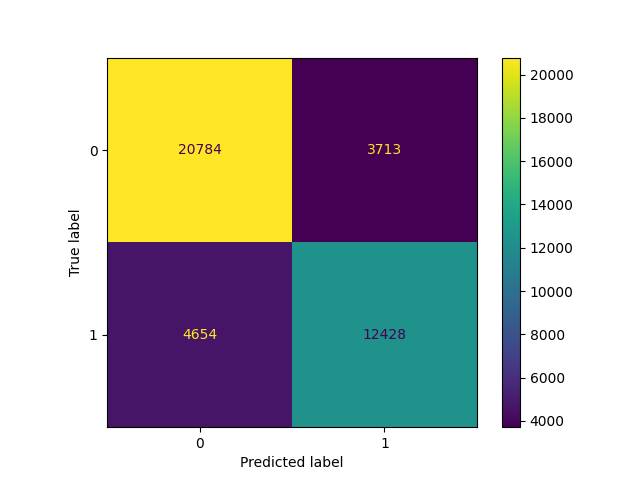
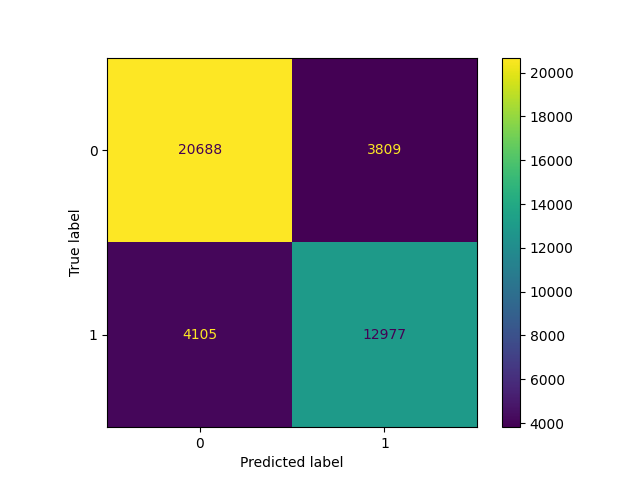
add: shap waterfall plot, confactual example, continued the report

diff --git a/example_manipulation.py b/example_manipulation.py
@@ -1,0 +1,28 @@
+from XGBoostTests import tester
+from pandas import read_csv
+from numpy import ravel
+from sklearn.metrics import accuracy_score, ConfusionMatrixDisplay, confusion_matrix, classification_report
+from matplotlib import pyplot as plt
+import shap
+from lime import lime_tabular
+
+dataset = tester.X_test.iloc[[0]].copy()
+dataset["WKHP"] = 40
+preds = tester.model.predict(dataset)
+print(f"Prediction with WKHP=40: {preds}")
+shap_explainer = shap.Explainer(tester.model,tester.X_train)
+shap_values = shap_explainer(dataset)
+shap.waterfall_plot(shap_values[0], show=False)
+plt.tight_layout()
+plt.savefig("images/shap/manipulated_waterfall_plot.png")
+plt.close()
+
+explainer = lime_tabular.LimeTabularExplainer(training_data=tester.X_train.values,
+                                              feature_names=tester.X_train.keys(),
+                                                class_names=[str(c) for c in tester.model.classes_],
+                                                mode='classification')
+exp = explainer.explain_instance(data_row=dataset.iloc[0].values,
+                                 predict_fn=tester.model.predict_proba)
+fig = exp.as_pyplot_figure()
+plt.tight_layout()
+plt.savefig(f"images/lime/manipulated_WKHP_40.png")

diff --git a/lime_exp.py b/lime_exp.py
@@ -1,17 +1,15 @@
 from lime import lime_tabular
-from utils import ModelTester
-from xgboost import XGBClassifier
+from XGBoostTests import tester
 from matplotlib import pyplot as plt
-params = {'learning_rate': 0.05, 'max_depth': 6, 'n_estimators': 400}
 
-clf = XGBClassifier(enable_categorical=True, **params)
-tester = ModelTester(clf)
-tester.test_model()
 explainer = lime_tabular.LimeTabularExplainer(training_data=tester.X_train.values,
                                               feature_names=tester.X_train.keys(),
                                               class_names=[str(c) for c in tester.model.classes_],
                                               mode='classification')
-explainer.explain_instance(data_row=tester.X_test.iloc[0].values,
-                           predict_fn=tester.model.predict_proba).as_pyplot_figure()
+print(tester.model.predict_proba(tester.X_test.iloc[[0]]))
+print(tester.model.predict(tester.X_test.iloc[[0]]))
+print(tester.model.classes_)
+explainer.explain_instance(data_row=tester.X_test.iloc[[0]].values[0],
+                           predict_fn=tester.model.predict_proba).as_pyplot_figure(label=0)
 plt.tight_layout()
 plt.savefig(f"images/lime/default.png")

diff --git a/smaller_train_set.py b/smaller_train_set.py
@@ -1,0 +1,37 @@
+from utils import ModelTester
+from xgboost import XGBClassifier
+
+params = {'learning_rate': 0.05, 'max_depth': 6, 'n_estimators': 400}
+
+test_scores = []
+
+train_set_sizes = []
+trainings_times = []
+
+for i in [0.5, 0.2, 0.1, 0.05, 0.01, 0.001]:
+    clf = XGBClassifier(**params)
+    tester = ModelTester(clf, reduce_train=i)
+
+    tester.test_model()
+    test_scores.append((tester.test_score))
+    train_set_sizes.append(tester.X_train.shape[0])
+    trainings_times.append(tester.train_time)
+
+from matplotlib import pyplot as plt
+
+plt.xscale("log")
+plt.plot(train_set_sizes,test_scores, marker='o')
+plt.xticks(train_set_sizes, train_set_sizes)
+plt.gca().invert_xaxis() 
+plt.xlabel("Training set size")
+plt.ylabel("Test Accuracy")
+plt.title("Impact of training set size on XGBoost test accuracy")
+plt.savefig("images/XGBClassifier/smaller_train_set.png")
+plt.close()
+
+plt.plot(train_set_sizes,trainings_times, marker='o')
+plt.gca().invert_xaxis() 
+plt.xlabel("Training set size")
+plt.ylabel("Training Time (seconds)")
+plt.title("Impact of training set size on XGBoost training time")
+plt.savefig("images/XGBClassifier/smaller_train_set_time.png")

diff --git a/utils.py b/utils.py
@@ -10,7 +10,7 @@ from time import time
 categorical = ['COW', 'MAR', 'OCCP', 'POBP', 'RELP', 'SEX', 'RAC1P']
 
 class ModelTester():
-    def __init__(self, model, dataset=None):
+    def __init__(self, model, dataset=None, reduce_train = 1.):
         self.model = model
             
         output_dir = path.join("images", model.__class__.__name__)
@@ -32,6 +32,13 @@ class ModelTester():
             self.X = concat([self.X.drop(columns=categorical), DataFrame(encoded, index=self.X.index, columns=encoder.get_feature_names_out(categorical))], axis=1)
 
         self.X_train, self.X_test, self.y_train, self.y_test = train_test_split(self.X, self.y, test_size=0.25, random_state=305)
+        
+        if reduce_train < 1 :
+            _, self.X_train, _,self.y_train = train_test_split(self.X_train, self.y_train, test_size=reduce_train, random_state=305)
+        
+        if reduce_train < 1 :
+            print(self.X_train.shape[0],self.X_test.shape[0])
+        # print(self.X_test.iloc[0])
         self.score = None
 
     def set_model(self, model):

diff --git a/new_dataset.py b/new_dataset.py
@@ -1,0 +1,21 @@
+from XGBoostTests import tester
+from pandas import read_csv
+from numpy import ravel
+from sklearn.metrics import accuracy_score, ConfusionMatrixDisplay, confusion_matrix, classification_report
+from matplotlib import pyplot as plt
+
+categorical = ['COW', 'MAR', 'OCCP', 'POBP', 'RELP', 'SEX', 'RAC1P']
+
+dataset= read_csv("data/acsincome_co_allfeatures_with_POBP_and_OCCP_regrouped.csv")
+dataset[categorical] = dataset[categorical].astype("category").apply(lambda s: s.cat.codes)
+labels = ravel(read_csv("data/acsincome_co_label.csv"))
+
+preds = tester.model.predict(dataset)
+accuracy = accuracy_score(labels, preds)
+print(f"Accuracy: {accuracy}")
+
+cm = confusion_matrix(labels, preds)
+disp = ConfusionMatrixDisplay(cm)
+disp.plot()
+plt.savefig("images/colorado/confusion_matrix_test.png")
+plt.close()

diff --git a/paramOptimization.py b/paramOptimization.py
@@ -3,9 +3,9 @@ from sklearn.base import clone
 from sklearn.model_selection import cross_val_score
 import numpy as np
 
-# Adeboost param grid
+# Adaboost param grid
 param_grid = {
-    'learning_rate': {'type':'float', 'low':0.01, 'high':0.3, 'step':0.01},
+    'learning_rate': {'type':'float', 'low':0.01, 'high':2},
     # 'max_depth': {'type':'int', 'low':1, 'high':17, 'step':2},
     'n_estimators': {'type':'int', 'low':50, 'high':450, 'step':10},
     # 'learning_rate': ("choice", [0.01, 0.05, 0.1, 0.3]),

diff --git a/AdaboostTests.py b/AdaboostTests.py
@@ -1,6 +1,6 @@
 from sklearn.ensemble import AdaBoostClassifier
 from utils import ModelTester
-params = {'learning_rate': 0.2156400132705045, 'n_estimators': 450}
+params = {'learning_rate': 1.7592424690135926, 'n_estimators': 210}
 clf = AdaBoostClassifier(**params)
 tester = ModelTester(clf)
 tester.test_model(file_name_prefix="optimized_", generate_files=True)

diff --git a/shap_waterfall.py b/shap_waterfall.py
@@ -1,0 +1,10 @@
+import shap
+from pickle import load
+from matplotlib.pyplot import savefig, tight_layout
+
+
+with open("shap_values_new.pkl", "rb") as f:
+    shap_values = load(f)
+shap.plots.waterfall(shap_values[0], show=False)
+tight_layout()
+savefig("images/shap/waterfall_plot.png")

diff --git a/CR-TP-ML.md b/CR-TP-ML.md
@@ -79,24 +79,24 @@ Donnez la liste des features et ce qu'elles représentent (préciser les éventu
 
 ### ADABOOST
 
-AdaBoostClassifier || Test score: 0.7987686091536593 | Train score: 0.8036733581323756 | Training time: 60.93 seconds || Test time: 4.14 seconds
+AdaBoostClassifier || Test score: 0.8096635320714783 | Train score: 0.8127084402257568 | Training time: 34.25 seconds || Test time: 2.96 seconds
 
 - Processus d'entrainement :
   - Recherche des hyperparamètres
   - Listes des hyperparamètres testés et valeurs :
-    > 'learning_rate': {'type':'float', 'low':0.01, 'high':0.3},
+    > 'learning_rate': {'type':'float', 'low':0.01, 'high':2},
     > 'n_estimators': {'type':'int', 'low':50, 'high':450, 'step':10},
   - Nombre de plis pour la validation croisée : 3
   - Nombre total d'entrainement : 60
 - Résultats :
-  - Meilleurs hyperparamètres :
+  - Meilleurs hyperparamètres : {'learning_rate': 1.7592424690135926, 'n_estimators': 210}
   - Performances en entraintement :
-    - Accuracy : 0.8036733581323756
-    - Temps de calcul : 60.93 seconds
+    - Accuracy : 0.8127084402257568
+    - Temps de calcul : 34.25 seconds
     - Matrice de Confusion : ![cm](images/AdaBoostClassifier/optimized_confusion_matrix_train.png)
   - Performance en test :
-    - Accuracy : 0.7987686091536593
-    - Temps de calcul : 4.14 seconds
+    - Accuracy : 0.8096635320714783
+    - Temps de calcul : 2.96 seconds
     - Matrice de Confusion : ![cm](images/AdaBoostClassifier/optimized_confusion_matrix.png)
   - Commentaires / analyses (par rapport résultat expe 1)
     L'optimisation des hyperparamètres n'a pas été très efficace. Le score de test n'a augmenté que de 0.2%, avec un score d'entrainement qui a augmenté de 0.4%, ce qui veut dire qu'il ya peut être eu un léger overfitting. Le temps d'entrainement a en revanche beaucoup augmenté, passant de 6.59 secondes à presque 1 minute, ce qui est surement dû à l'augmentation du nombre d'estimateurs.
@@ -109,8 +109,8 @@ AdaBoostClassifier || Test score: 0.7987686091536593 | Train score: 0.8036733581
     > 'learning_rate': ('choice', [0.05, 0.1, 0.3]),
     > 'max_depth': ('choice', [3, 6, 10, 15, 20]),
     > 'n_estimators': ("choice", [50, 100, 200, 400])
-  - Nombre de plis pour la validation croisée :
-  - Nombre total d'entrainement :
+  - Nombre de plis pour la validation croisée : 3
+  - Nombre total d'entrainement : 60
 - Résultats :
   - Meilleurs hyperparamètres :
     > {'learning_rate': 0.05, 'max_depth': 6, 'n_estimators': 400}
@@ -136,14 +136,14 @@ AdaBoostClassifier || Test score: 0.7987686091536593 | Train score: 0.8036733581
 
 | Evaluation en train | Random Forest                                                             | Adaboost                                                              | XGBoost                                                          |
 | ------------------- | ------------------------------------------------------------------------- | --------------------------------------------------------------------- | ---------------------------------------------------------------- |
-| accuracy            | 0.8409440738840431                                                        | 0.8036733581323756                                                    | 0.8320933812211391                                               |
-| Temps calcul        | 36.44                                                                     | 60.93                                                                 | 2.71                                                             |
+| accuracy            | 0.8409440738840431                                                        | 0.8127084402257568                                                    | 0.8320933812211391                                               |
+| Temps calcul        | 36.44                                                                     | 34.25                                                                 | 2.71                                                             |
 | Matrice confusion   | ![cm](images/RandomForestClassifier/optimized_confusion_matrix_train.png) | ![cm](images/AdaBoostClassifier/optimized_confusion_matrix_train.png) | ![cm](images/XGBClassifier/optimized_confusion_matrix_train.png) |
 
 | Evaluation en test | Random Forest                                                       | Adaboost                                                        | XGBoost                                                    |
 | ------------------ | ------------------------------------------------------------------- | --------------------------------------------------------------- | ---------------------------------------------------------- |
-| accuracy           | 0.8119964405108347                                                  | 0.7987686091536593                                              | 0.8193318742634503                                         |
-| Temps calcul       | 1.62                                                                | 4.14                                                            | 0.08                                                       |
+| accuracy           | 0.8119964405108347                                                  | 0.8096635320714783                                              | 0.8193318742634503                                         |
+| Temps calcul       | 1.62                                                                | 2.96                                                            | 0.08                                                       |
 | Matrice confusion  | ![cm](images/RandomForestClassifier/optimized_confusion_matrix.png) | ![cm](images/AdaBoostClassifier/optimized_confusion_matrix.png) | ![cm](images/XGBClassifier/optimized_confusion_matrix.png) |
 
 - Commentaires et Analyse :
@@ -153,34 +153,86 @@ L'optimisation d'hyperparamètres a permis de réduire la différence de score e
 ## Expérimentation 4 : inférence sur un autre jeu de données (optionnel)
 
 Résultats / Commentaires / Analyses :
+<br>
+
+| Class        | Precision | Recall | F1-score | Support |
+| ------------ | --------- | ------ | -------- | ------- |
+| 0            | 0.88      | 0.73   | 0.80     | 18334   |
+| 1            | 0.69      | 0.85   | 0.76     | 12972   |
+| Accuracy     |           |        | 0.78     | 31306   |
+| Macro Avg    | 0.78      | 0.79   | 0.78     | 31306   |
+| Weighted Avg | 0.80      | 0.78   | 0.78     | 31306   |
+
+<br>
+
+![cm_new_data](images/colorado/confusion_matrix_test.png)
+
+On peut voir que bien que les résultats sont moins bons, mais il n'est tout de même pas abérrant sur ce dataset du colorado, avec une accuracy de 0.78, ce qui veut dire que l'on na pas trop overfit. Cependant, on peut quand même supposer qu'il y a eu de l'overfitting étant donné que cette accuracy a baissé de 4% par rapport au dataset initial, même si cela peut être dû ç des.
 
 ## Expérimentation 5 : impact de la taille du jeu de données
 
-Résultats / Commentaires / Analyses :
+Résultats / Commentaires / Analyses : <br>
+![size_impact](images/XGBClassifier/smaller_train_set.png)
+
+On peut voir que XGBoost est très peu impacté par la taille du dataset dans ce cas. Sa précision ne diminue vraiment que quand on passe en dessous de 20% de la taille initiale. Même avec 0.1% du dataset, la précion reste près de 75%. Cepandant cela est dû au fait quel'on a enlevé les samples par un échantillonnage aléatoire, ce qui le rend toujours relativement représentatif.
+<br>
+![size_impact_time](images/XGBClassifier/smaller_train_set_time.png)
+
+En ravanche on peut voir que le temps d'entrainement est assez significativement impacté par la taille du dataset, diminuant linéairement. Cependant étant donné que XGBoost est très rapide de base, diminuer ainsi la taille du dataset peut être intéressant que pour de très grands datasets ou des systèmes avec peu de ressources.
 
 ## Modèle choisi pour la suite :
 
 - quel modèle :
+  XGBoost avec
+  > {'learning_rate': 0.05, 'max_depth': 6, 'n_estimators': 400}
 - pourquoi ?
+  C'est le modèle avec les meilleurs performances, que ce soit en termes de score ou de temps d'exécution. Ce qui permettra les tests les plus pertinents mais aussi les plus rapides à réaliser.
 
 ## Explicabilité : "permutation feature importance"
 
 - Résultats obtenus :
+  ![pfi](images/XGBClassifier/permutation_feature_importance_default.png)
 - Analyses :
 
 ## Explicabilité : avec LIME et SHAP
 
 - Méthode LIME
   - Exemple(s) choisi(s)
-  - Résultats
+    le premier exemple de la dataset de test
+  - Résultats <br>
+    ![lime](images/lime/default.png)
   - Commentaires / analyses
 - Méthode SHAP
   - Exemple(s) choisi(s)
-  - Résultats
+    le premier exemple de la dataset de test
+  - Résultats <br>
+    ![shap](images/shap/waterfall_plot.png)
   - Commentaires / analyses
 - Comparaison LIME et SHAP
-- Analyse summary-plot de SHAP
+- Analyse summary-plot de SHAP <br>
+  ![shap_summary](images/shap/summary_default.png)
 
 ## Explicabilité : contrefactuelle
 
 Résultats / Commentaires / Analyses :
+
+Exemple choisi : le premier exemple de la dataset de test: <br>
+
+- AGEP 35
+- COW Employée
+- SCHL Master
+- MAR Mariée
+- OCCP Community and Social Services
+- POBP northern_america
+- RELP Le mari possède la maison
+- WKHP 20 h/semaine
+- SEX Femme
+- RAC1P White
+
+On a vu par l'analyse SHAP et LIME que sur cet execmple, le principar facteur discriminant est le nombre d'heures travailléess par semaine. On l'augmente donc à 40, sans toucher aux autres features. <br>
+
+Résultat: Classe prédite 2
+
+![shap_contrefactual](images/shap/manipulated_waterfall_plot.png)
+
+On voit direcment qu'avec le changement du nombre d'heures travaillées par semaine, le sample a été classé de manière tout à fait différente, avec l'influence des autres features changeant aussi. Cela confirme à quel point le modèle est sensilble à cette feature.
